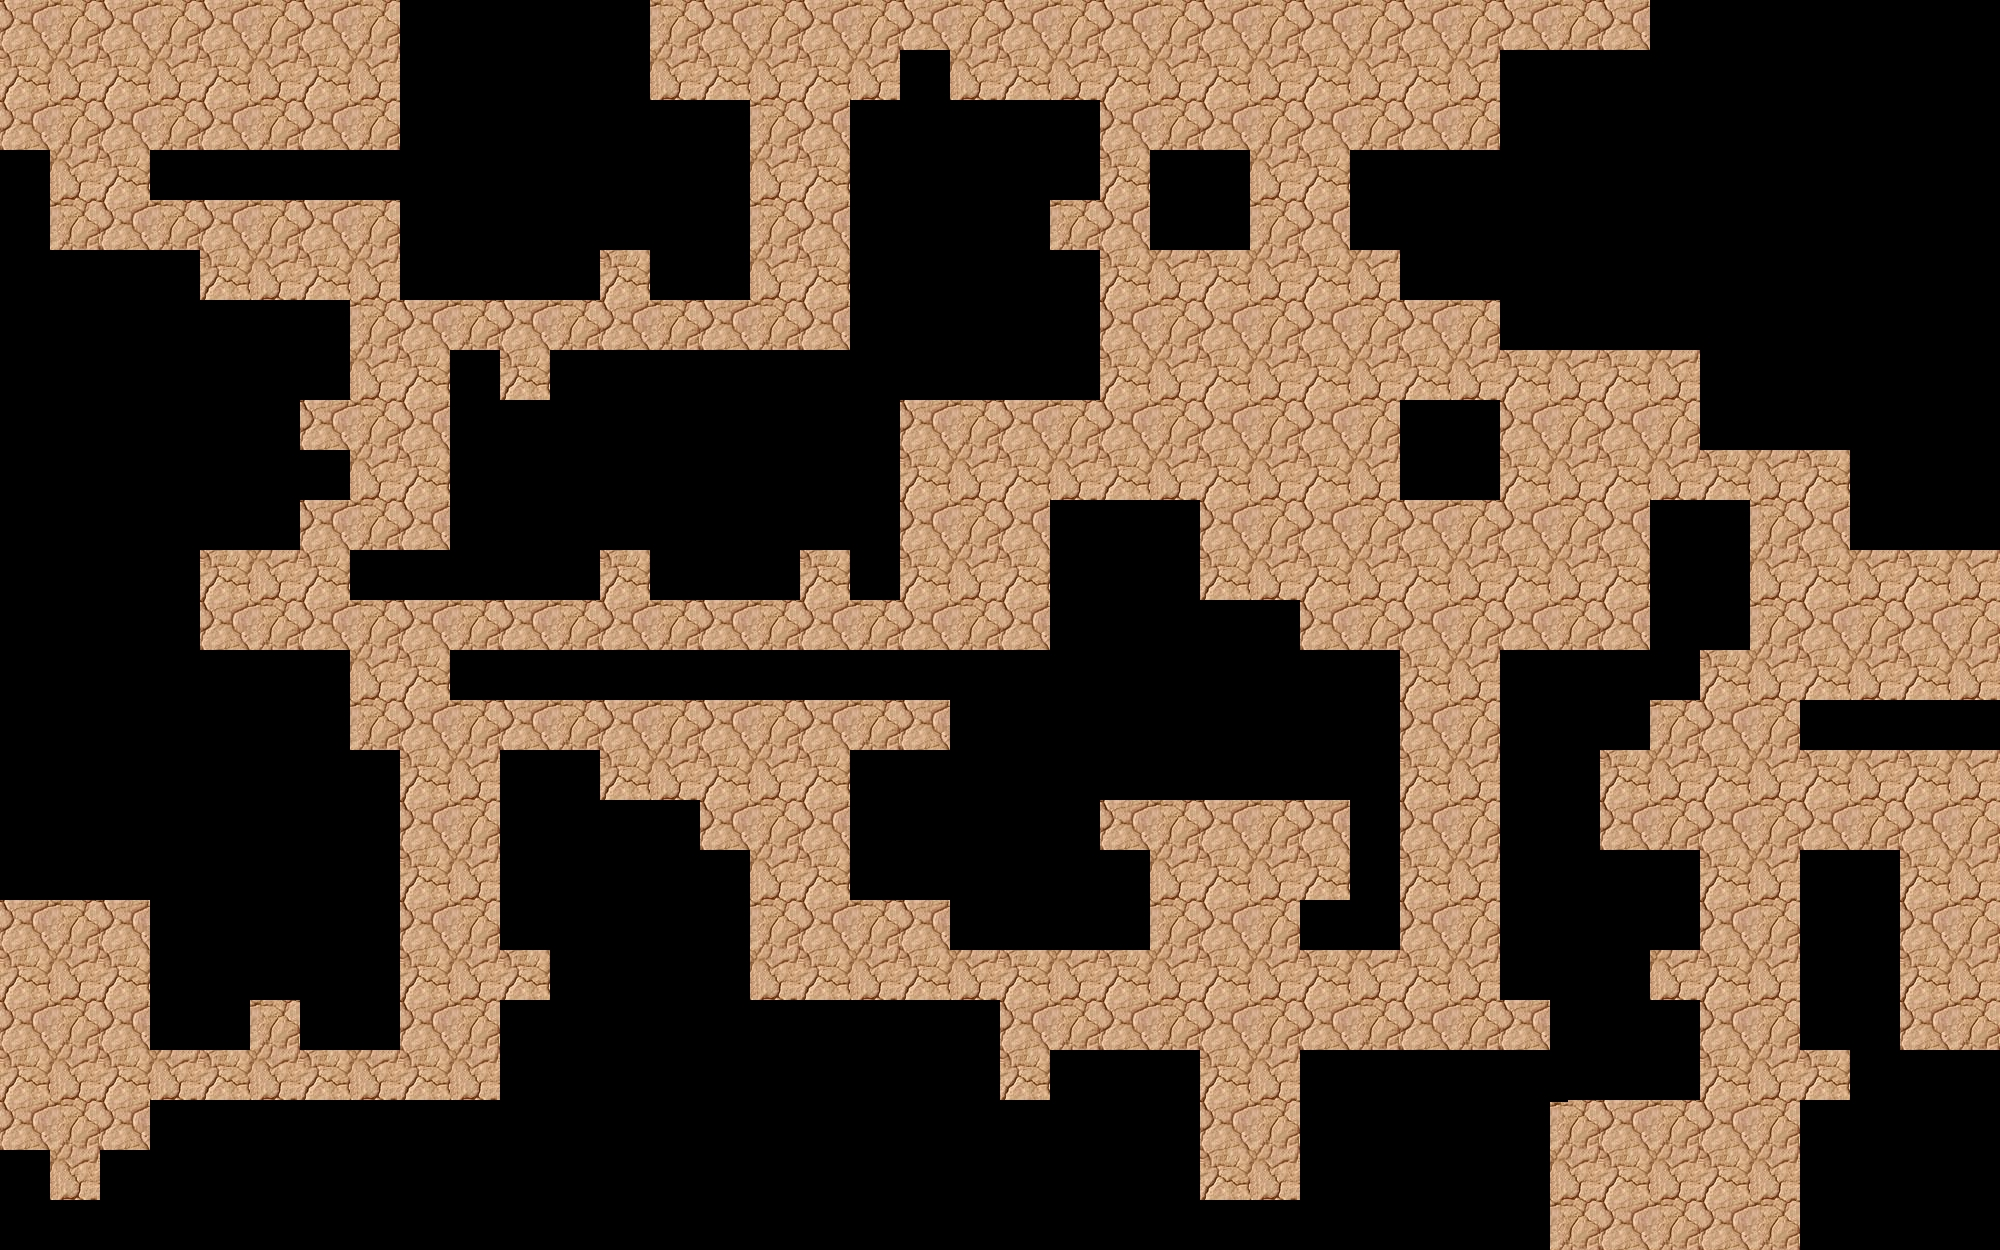
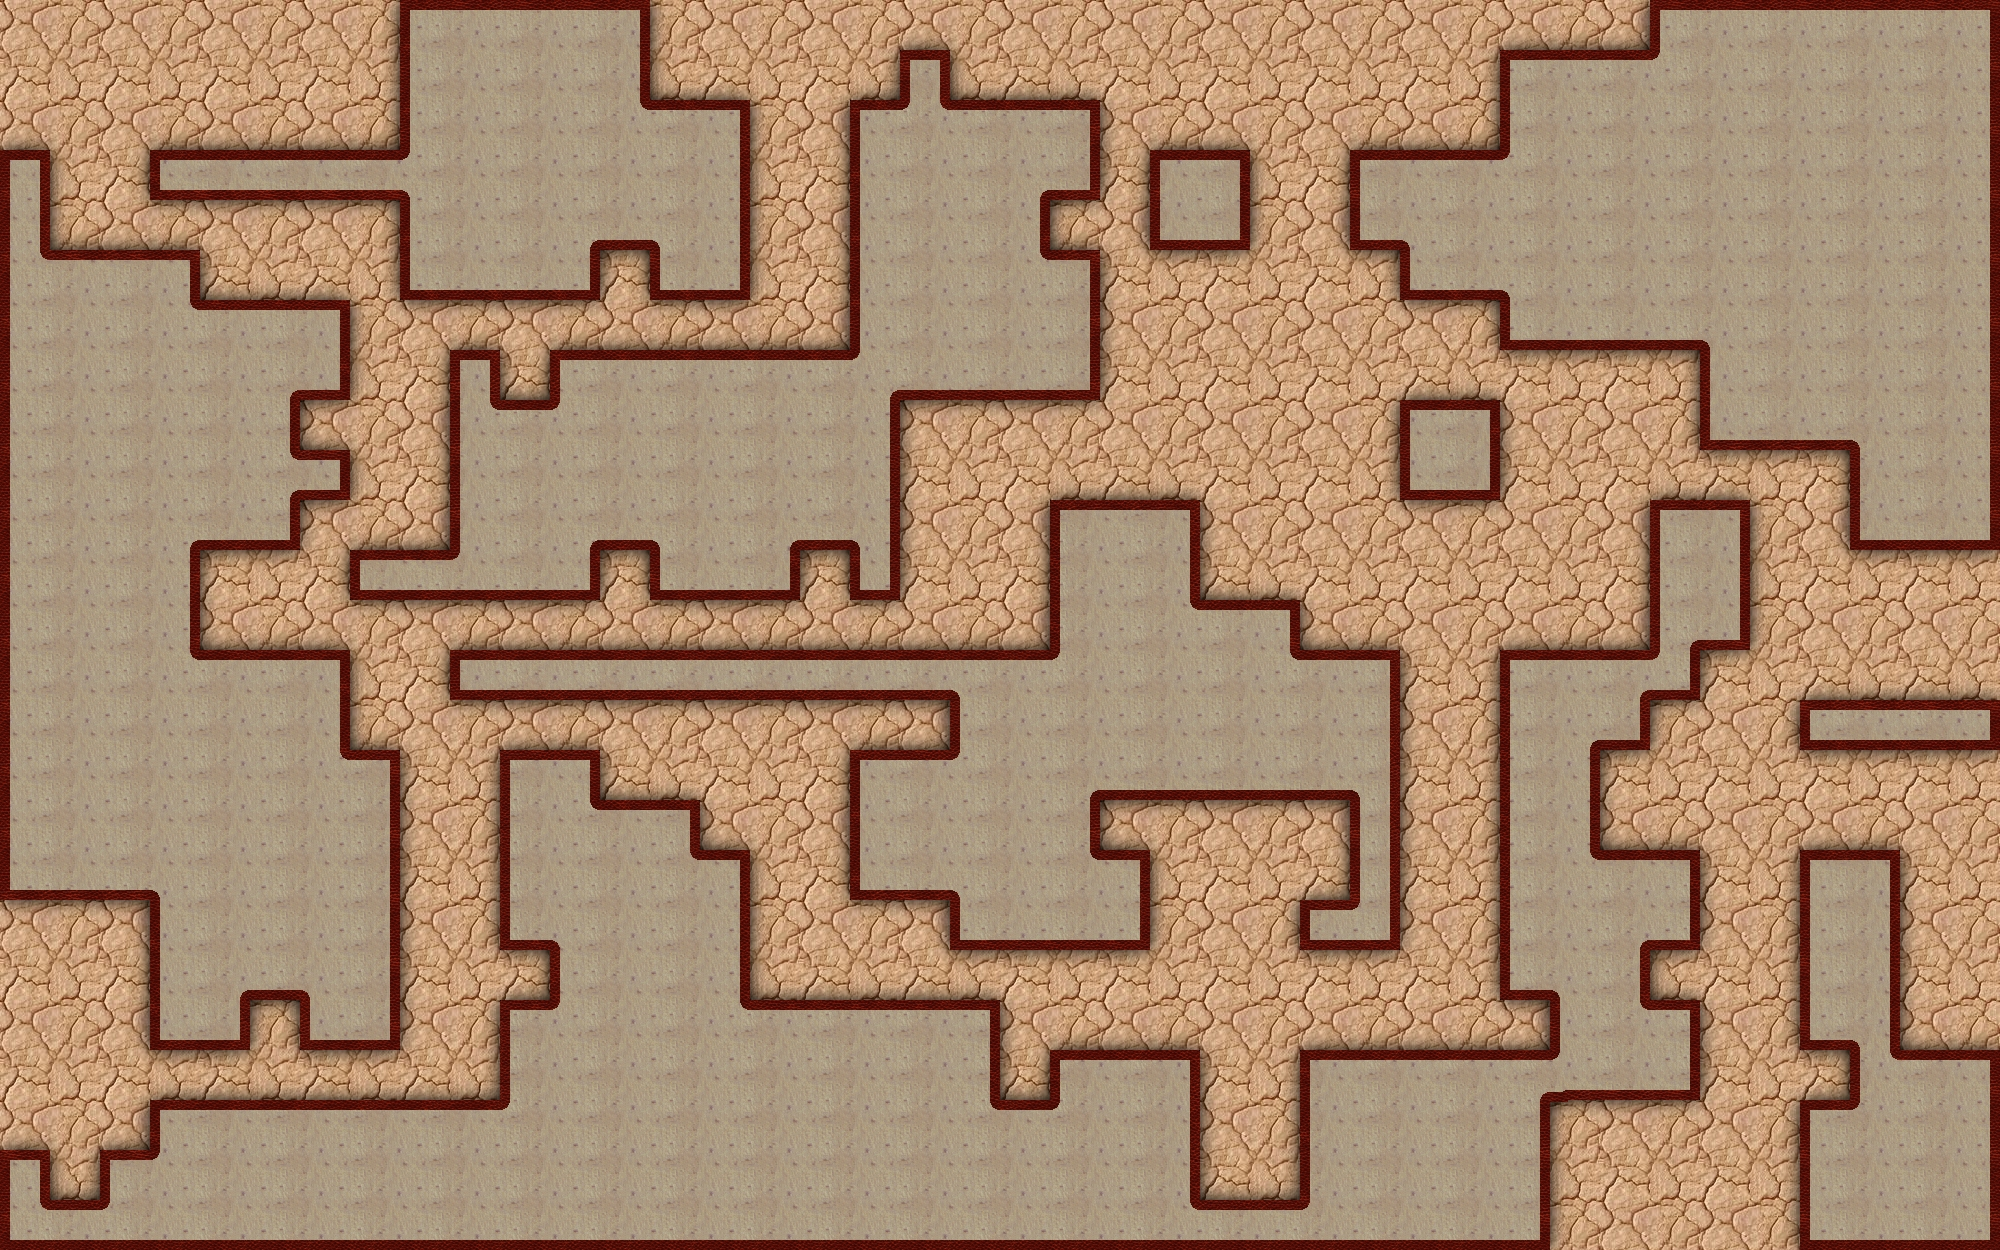
little bit graphic stuff and display available shots per moving field

diff --git a/js/modules/map/view/MapView.js b/js/modules/map/view/MapView.js
@@ -363,6 +363,7 @@ var MapView = Backbone.View.extend({
             currentSelectedUnitModel,
             hoveredElement,
             currentPosition,
+            currentWeapon,
             goalPosition;
 
         // no selected unit -> no way -> exit
@@ -404,7 +405,9 @@ var MapView = Backbone.View.extend({
         this.model.setGoalMovingPath(goalPosition);
 
         this.removeMovingPath();
-        this.addMovingPath(currentPosition, goalPosition, currentSelectedUnitModel.get('currentActionPoints'));
+
+        currentWeapon = currentSelectedUnitModel.get('selectedWeapon');
+        this.addMovingPath(currentPosition, goalPosition, currentSelectedUnitModel.get('currentActionPoints'), currentWeapon.model.get('actionPoints'));
     },
 
     /**
@@ -414,15 +417,17 @@ var MapView = Backbone.View.extend({
      * @param object currentPosition - current position of selected unit {x: ?, y: ?}
      * @param object goalPosition - position where the units wants to move {x: ?, y: ?}
      * @param integer currentActionPoints - to restrict the moving path to max action points of the unit
+     * @param integer weaponActionPoints
      *
      * @return void
      */
-    addMovingPath: function (currentPosition, goalPosition, currentActionPoints) {
+    addMovingPath: function (currentPosition, goalPosition, currentActionPoints, weaponActionPoints) {
         var html = [],
             count = 0,
             wayPoints,
             currentWayPoint,
-            index;
+            index,
+            possibleShots;
 
         wayPoints = this.model.getWayPoints(
             this.obstacleCollection,
@@ -447,7 +452,8 @@ var MapView = Backbone.View.extend({
                     continue;
                 }
 
-                html.push('<div class="js-moving-path moving-path" style="left: ' + (currentWayPoint.row * 50) + 'px; top: ' + (currentWayPoint.col * 50) + 'px;"></div>');
+                possibleShots = Math.floor((currentActionPoints- (count+1)) / weaponActionPoints);
+                html.push('<div class="js-moving-path moving-path" style="left: ' + (currentWayPoint.row * 50) + 'px; top: ' + (currentWayPoint.col * 50) + 'px;">' + possibleShots + '</div>');
                 count += 1;
             }
         }

diff --git a/css/unit.css b/css/unit.css
@@ -26,7 +26,7 @@
 }
 
 .unit.unit-human-mg {
-    background-image: url(../images/test3.png);
+    background-image: url(../images/test6.png);
     background-repeat: no-repeat;
     background-position: -100px 0px;
     -webkit-transform: rotate(0deg);
@@ -36,12 +36,12 @@
     cursor: crosshair;
 }
 .unit.enemy.unit-human-mg {
-    background-image: url(../images/test4.png);
+    background-image: url(../images/test8.png);
     background-repeat: no-repeat;
 }
 
 .unit.unit-human-bazooka {
-    background-image: url(../images/test5.png);
+    background-image: url(../images/test7.png);
     background-repeat: no-repeat;
     background-position: -100px 0px;
     -webkit-transform: rotate(0deg);

diff --git a/css/obstacle.css b/css/obstacle.css
@@ -7,4 +7,5 @@
     position: absolute;
     top: 0px;
     left: 0px;
+    display: none;
 }
